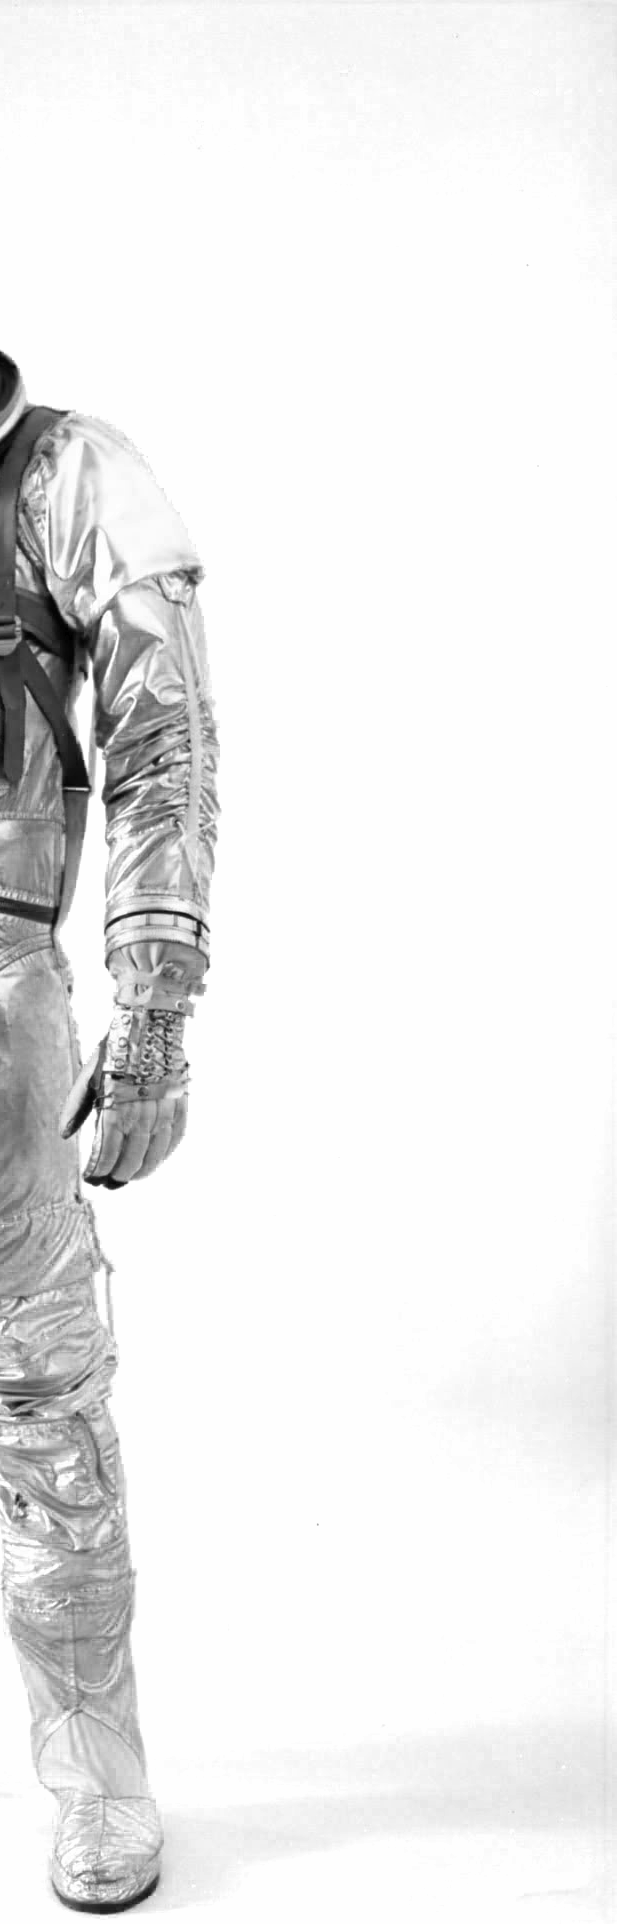
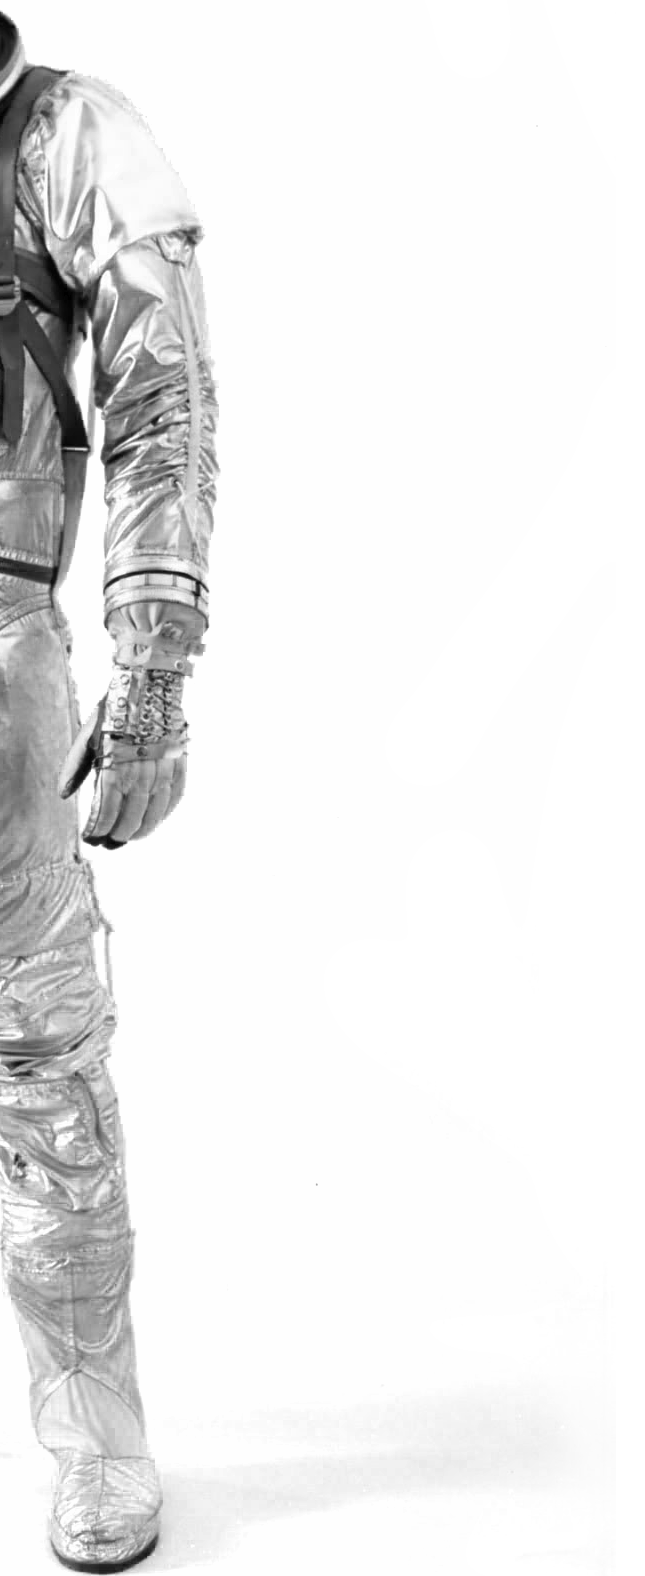
+ Positioning the astronauts

Changed region(s): [[0.0, 0.0, 0.3689, 1.0], [0.9531, 0.9016, 1.0, 0.9638], [0.9531, 0.684, 1.0, 0.7462]]

diff --git a/source/stylesheets/snazzy.css.sass b/source/stylesheets/snazzy.css.sass
@@ -27,8 +27,22 @@ h1
   width: 512px
   margin: 0 auto
   
+  img
+    position: absolute
+    
+    &.left
+      left: -618px
+    
+    &.right
+      width: 128px
+      top: 20px
+      right: 690px
+  
   p
     margin: 2em 0
     
     &.slogan
       font-size: 1.15em
+      
+  p.close
+    margin-bottom: 1em
